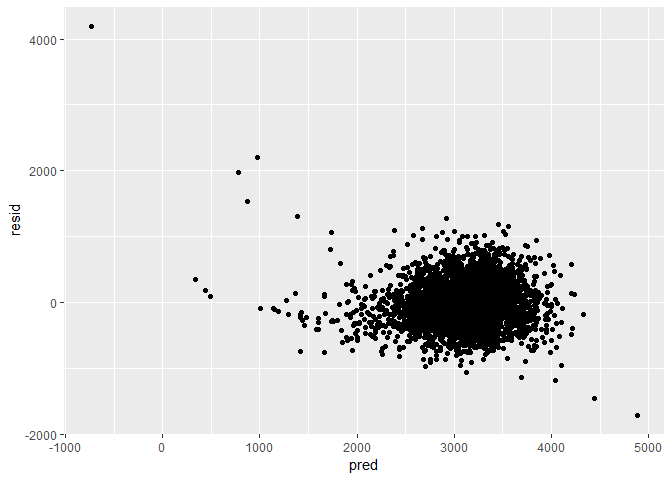
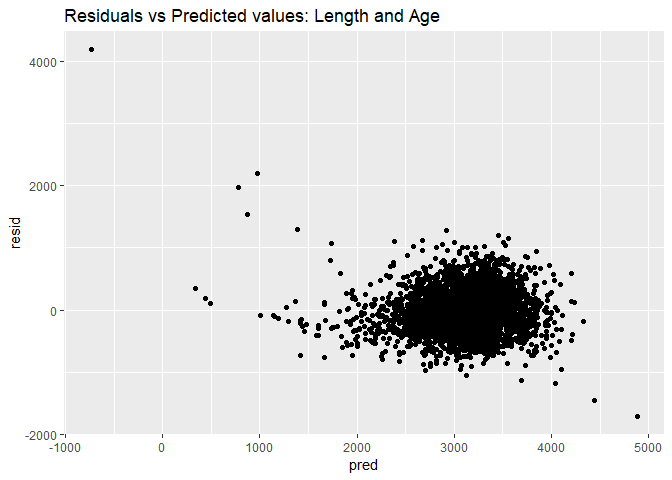
Graph edits, general formatting

diff --git a/Hw6_ntk2109_markdown.md b/Hw6_ntk2109_markdown.md
@@ -3,6 +3,8 @@ HW6\_ntk2109\_Markdown
 Noah Kreski
 November 20, 2018
 
+### Problem One: Baltimore Regression
+
 ``` r
  #I am creating city_state, eliminating data errors and unnecessary city-states, convert age to numeric, and applying a true/false statement to non-unknown race
 Washington_data = read_csv("./data/WashingtonPost/homicide-data.csv")%>%
@@ -31,6 +33,8 @@ m1 = fit_logistic %>%
   select(term, log_OR = estimate, OR)%>%
   filter(term == "victim_raceNon-White")
 ```
+
+### Problem Two: Child Birthweight Models
 
 ``` r
 #I am getting the data with appropriate formats
@@ -86,7 +90,7 @@ fit = lm(bwt ~ babysex + bhead + blength + delwt + gaweeks + mheight + mrace +pa
 birthweight_data%>%
   modelr::add_predictions(fit)%>%
   modelr::add_residuals(fit)%>%
-  ggplot(aes(x=pred, y = resid)) + geom_point()
+  ggplot(aes(x=pred, y = resid)) + geom_point() + labs(title = "Residuals vs Predicted values: Backwards Selection model")
 ```
 
 ![](Hw6_ntk2109_markdown_files/figure-markdown_github/model%20fit-1.png)
@@ -100,7 +104,7 @@ fit_length_age = lm(bwt ~ blength + gaweeks, data = birthweight_data)
 birthweight_data%>%
   modelr::add_predictions(fit_length_age)%>%
   modelr::add_residuals(fit_length_age)%>%
-  ggplot(aes(x=pred, y = resid)) + geom_point()
+  ggplot(aes(x=pred, y = resid)) + geom_point() + labs(title = "Residuals vs Predicted values: Length and Age")
 ```
 
 ![](Hw6_ntk2109_markdown_files/figure-markdown_github/other%20models-1.png)
@@ -112,12 +116,12 @@ fit_circumference_length_sex = lm (bwt ~ bhead + blength + babysex + bhead*bleng
 birthweight_data%>%
   modelr::add_predictions(fit_circumference_length_sex)%>%
   modelr::add_residuals(fit_circumference_length_sex)%>%
-  ggplot(aes(x=pred, y = resid)) + geom_point()
+  ggplot(aes(x=pred, y = resid)) + geom_point() + labs(title = "Residuals vs Predicted values: Circumference, Length and Sex")
 ```
 
 ![](Hw6_ntk2109_markdown_files/figure-markdown_github/other%20models-2.png)
 
-These plots map the residuals and predicted values for the two alternative models in the same way that I did earlier for my own model.
+These plots map the residuals and predicted values for the two alternative models in the same way that I did earlier for my own model. The model with just length and age has much larger residuals, often close to 1,000, whereas the model with sex, head circumference and length appears similar to my own model.
 
 ``` r
 #I am developing test and train subsets for cross-validation
@@ -129,13 +133,13 @@ cv_df %>% pull(train) %>% .[[1]] %>% as_tibble
     ## # A tibble: 3,473 x 20
     ##    babysex bhead blength   bwt delwt fincome frace gaweeks malform menarche
     ##    <fct>   <int>   <int> <int> <int>   <int> <fct>   <dbl> <fct>      <int>
-    ##  1 2          34      51  3629   177      35 1        39.9 0             13
-    ##  2 1          34      48  3062   156      65 2        25.9 0             14
-    ##  3 2          36      50  3345   148      85 1        39.9 0             12
-    ##  4 1          33      52  3374   129      55 1        40.7 0             12
-    ##  5 2          33      46  2523   126      96 2        40.3 0             14
-    ##  6 2          33      49  2778   140       5 1        37.4 0             12
-    ##  7 1          33      50  3459   169      75 2        40.7 0             12
+    ##  1 2          36      50  3345   148      85 1        39.9 0             12
+    ##  2 2          34      52  3374   156       5 1        41.6 0             13
+    ##  3 1          33      52  3374   129      55 1        40.7 0             12
+    ##  4 2          33      49  2778   140       5 1        37.4 0             12
+    ##  5 1          36      52  3515   146      85 1        40.3 0             11
+    ##  6 1          33      50  3459   169      75 2        40.7 0             12
+    ##  7 2          35      51  3317   130      55 1        43.4 0             13
     ##  8 1          35      51  3459   146      55 1        39.4 0             12
     ##  9 1          36      53  3629   147      75 1        41.3 0             11
     ## 10 1          35      51  3544   129      65 1        39.6 0             12
@@ -150,16 +154,16 @@ cv_df %>% pull(test) %>% .[[1]] %>% as_tibble
     ## # A tibble: 869 x 20
     ##    babysex bhead blength   bwt delwt fincome frace gaweeks malform menarche
     ##    <fct>   <int>   <int> <int> <int>   <int> <fct>   <dbl> <fct>      <int>
-    ##  1 1          34      52  3062   157      55 1        40   0             14
-    ##  2 2          34      52  3374   156       5 1        41.6 0             13
-    ##  3 1          36      52  3515   146      85 1        40.3 0             11
-    ##  4 2          35      51  3317   130      55 1        43.4 0             13
+    ##  1 2          34      51  3629   177      35 1        39.9 0             13
+    ##  2 1          34      48  3062   156      65 2        25.9 0             14
+    ##  3 1          34      52  3062   157      55 1        40   0             14
+    ##  4 2          33      46  2523   126      96 2        40.3 0             14
     ##  5 2          35      48  3175   158      75 1        39.7 0             13
-    ##  6 2          35      57  3374   147      45 1        39.6 0             12
-    ##  7 2          35      52  3289   135      55 1        40.6 0             13
+    ##  6 2          35      50  3175   140      85 2        40.6 0             14
+    ##  7 1          34      63  3175   143      25 1        41.9 0             13
     ##  8 2          34      49  3118   161      45 2        38.9 0             10
-    ##  9 1          35      53  3175   130      45 1        40.4 0             13
-    ## 10 2          34      54  3345   130      95 1        42.1 0             10
+    ##  9 2          34      52  3629   112      25 1        38   0             10
+    ## 10 1          35      55  3856   171      85 1        41.1 0             13
     ## # ... with 859 more rows, and 10 more variables: mheight <int>,
     ## #   momage <int>, mrace <fct>, parity <int>, pnumlbw <int>, pnumsga <int>,
     ## #   ppbmi <dbl>, ppwt <int>, smoken <dbl>, wtgain <int>
@@ -184,7 +188,7 @@ cv_df %>%
   gather(key = model, value = rmse) %>% 
   mutate(model = str_replace(model, "rmse_", ""),
          model = fct_inorder(model)) %>% 
-  ggplot(aes(x = model, y = rmse)) + geom_violin()
+  ggplot(aes(x = model, y = rmse)) + geom_violin() + labs(title = "RMSE by model")
 ```
 
 ![](Hw6_ntk2109_markdown_files/figure-markdown_github/Cross-validation-1.png)
